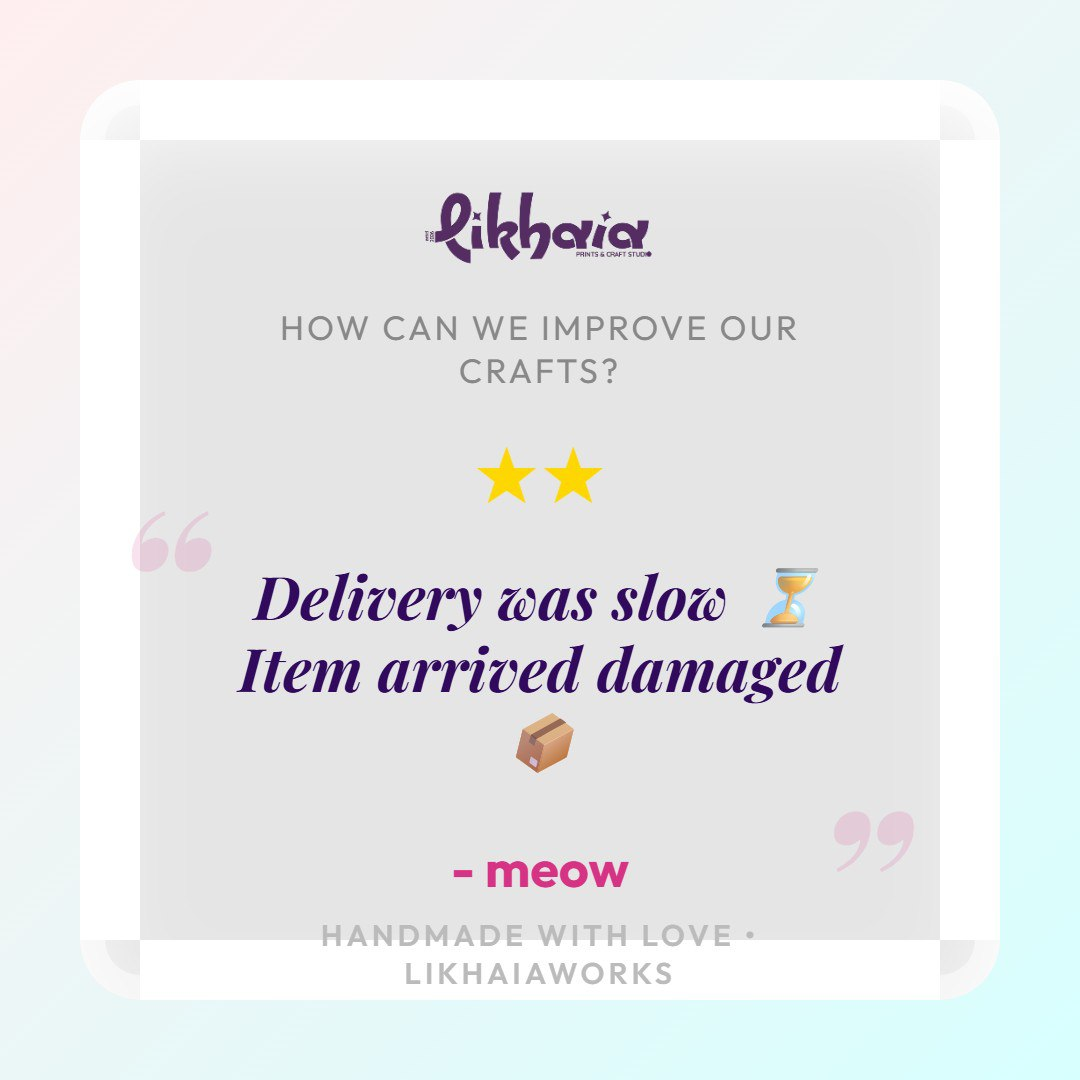
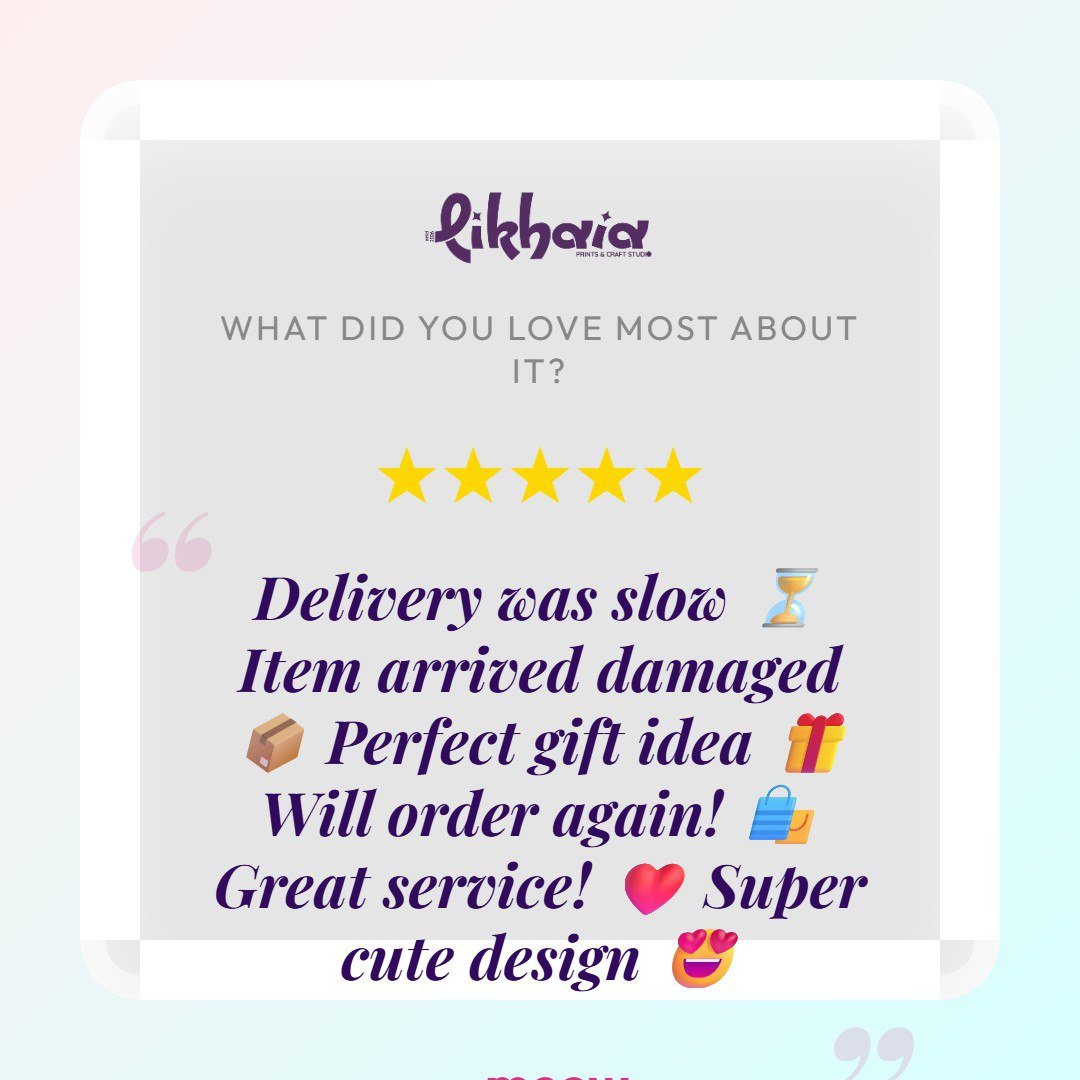
Implemented dynamic font sizing for review card to prevent text overlap

diff --git a/review.html b/review.html
@@ -255,14 +255,19 @@
         .temp-quote {
             font-family: 'Playfair Display', serif;
             font-size: 64px;
-            line-height: 1.4;
+            line-height: 1.3;
             color: var(--primary-color);
-            margin-bottom: 60px;
             font-style: italic;
             font-weight: 700;
             position: relative;
-            max-width: 800px;
+            max-width: 850px;
             word-wrap: break-word;
+            flex-grow: 1;
+            display: flex;
+            align-items: center;
+            justify-content: center;
+            text-align: center;
+            margin: 20px 0;
         }
 
         .temp-quote::before, .temp-quote::after {
@@ -473,9 +478,17 @@
             submitBtn.innerHTML = '<i class="fas fa-circle-notch fa-spin"></i> Processing...';
 
             // 1. Prepare the Review Card Image
-            document.getElementById('temp-quote-text').innerText = message;
+            const quoteElement = document.getElementById('temp-quote-text');
+            quoteElement.innerText = message;
             document.getElementById('temp-name-display').innerText = "- " + name;
             
+            // Dynamic Font Sizing based on length
+            const msgLen = message.length;
+            if (msgLen > 150) quoteElement.style.fontSize = '32px';
+            else if (msgLen > 100) quoteElement.style.fontSize = '42px';
+            else if (msgLen > 60) quoteElement.style.fontSize = '52px';
+            else quoteElement.style.fontSize = '64px';
+
             // Set Dynamic Question on Card
             const questionDisplay = document.getElementById('temp-question-display');
             if (currentRating >= 4) {
